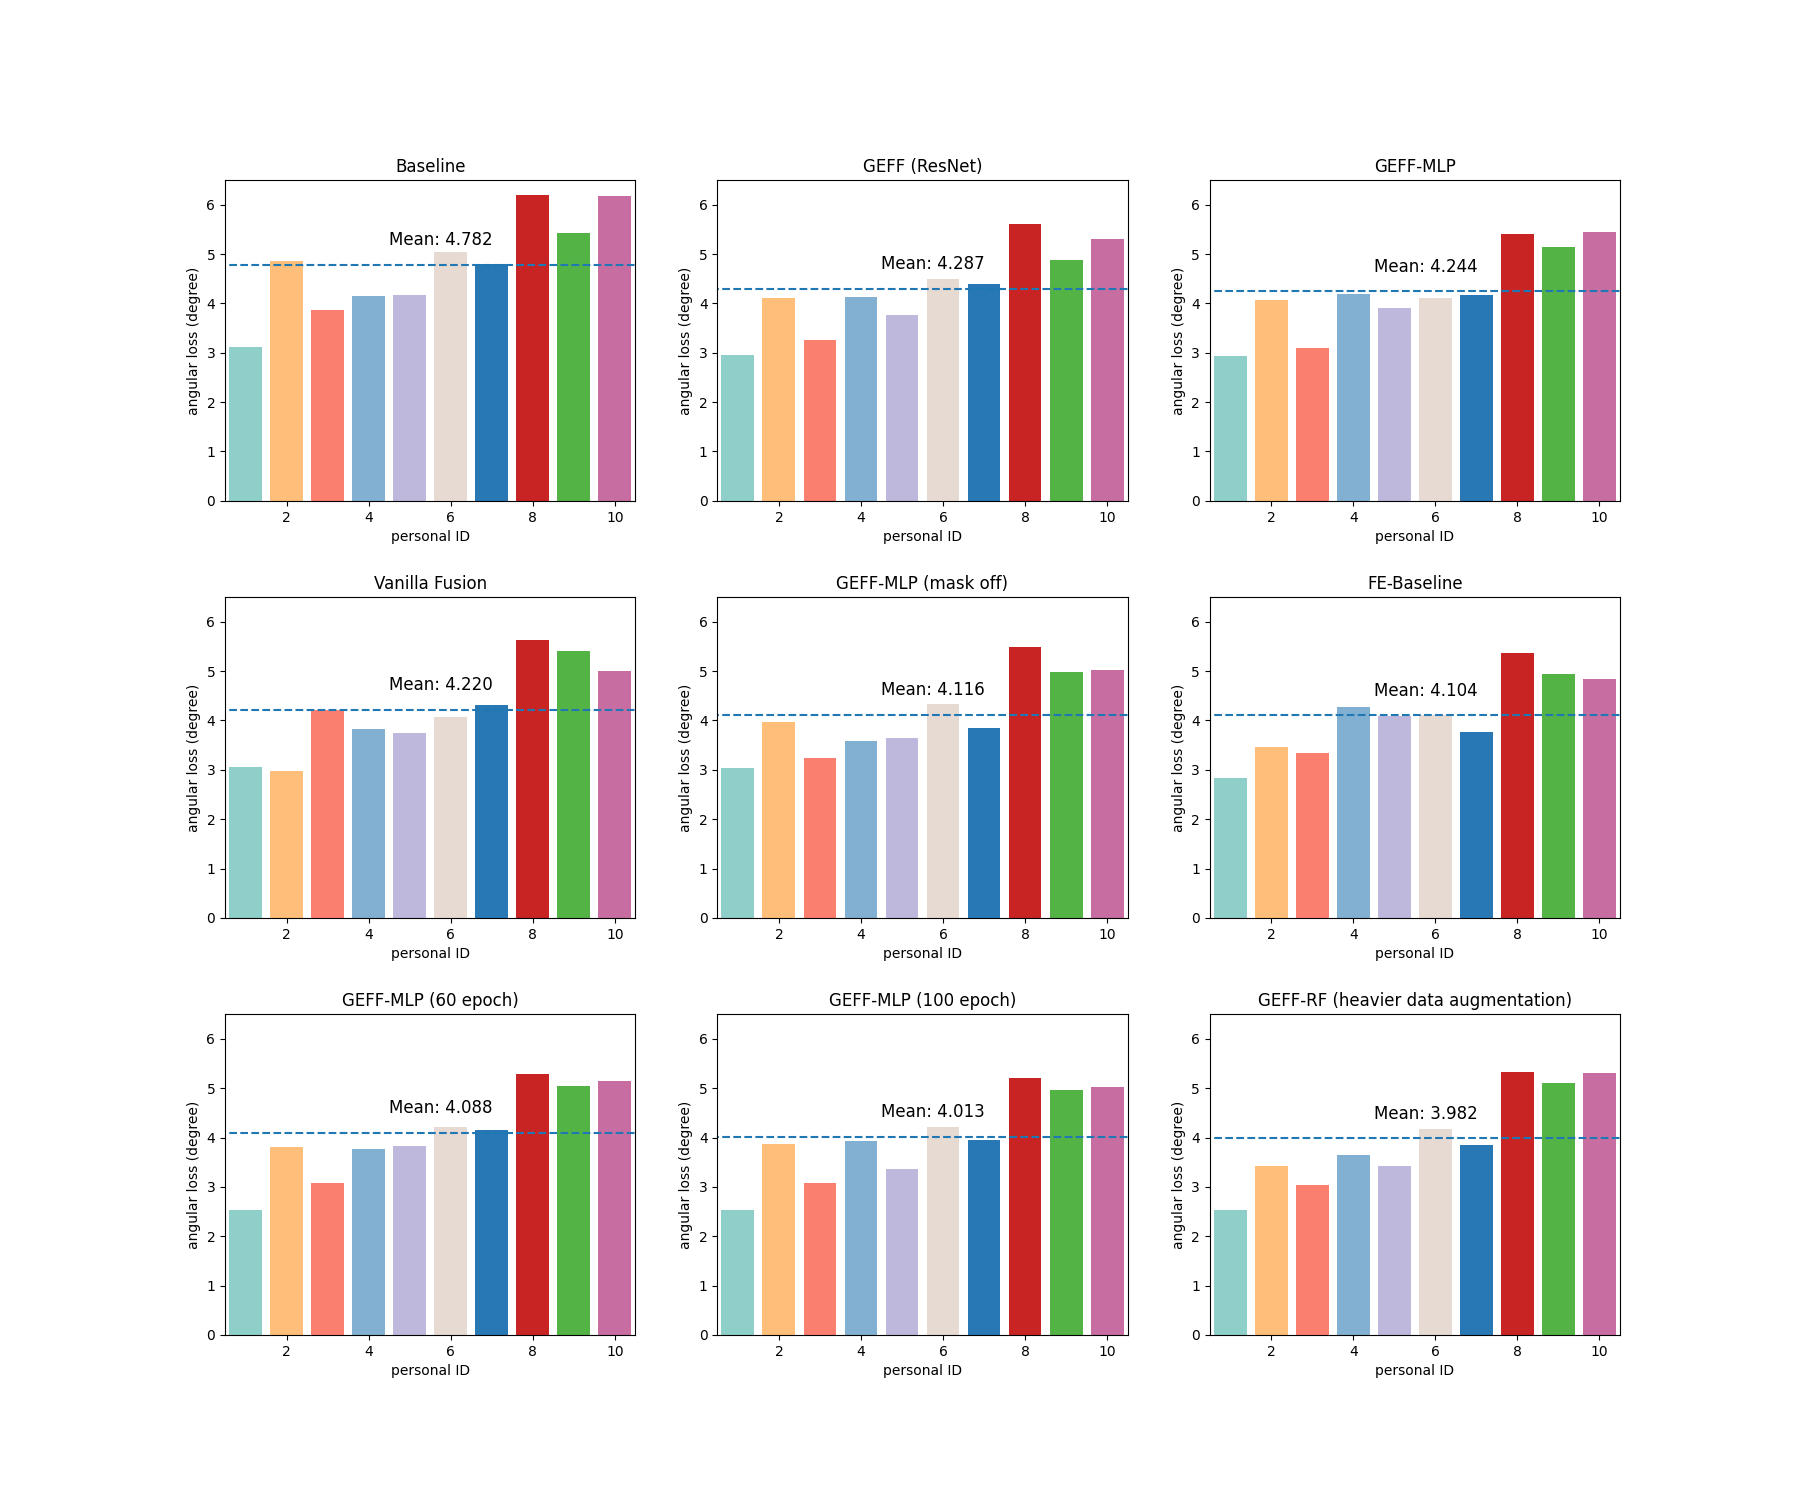
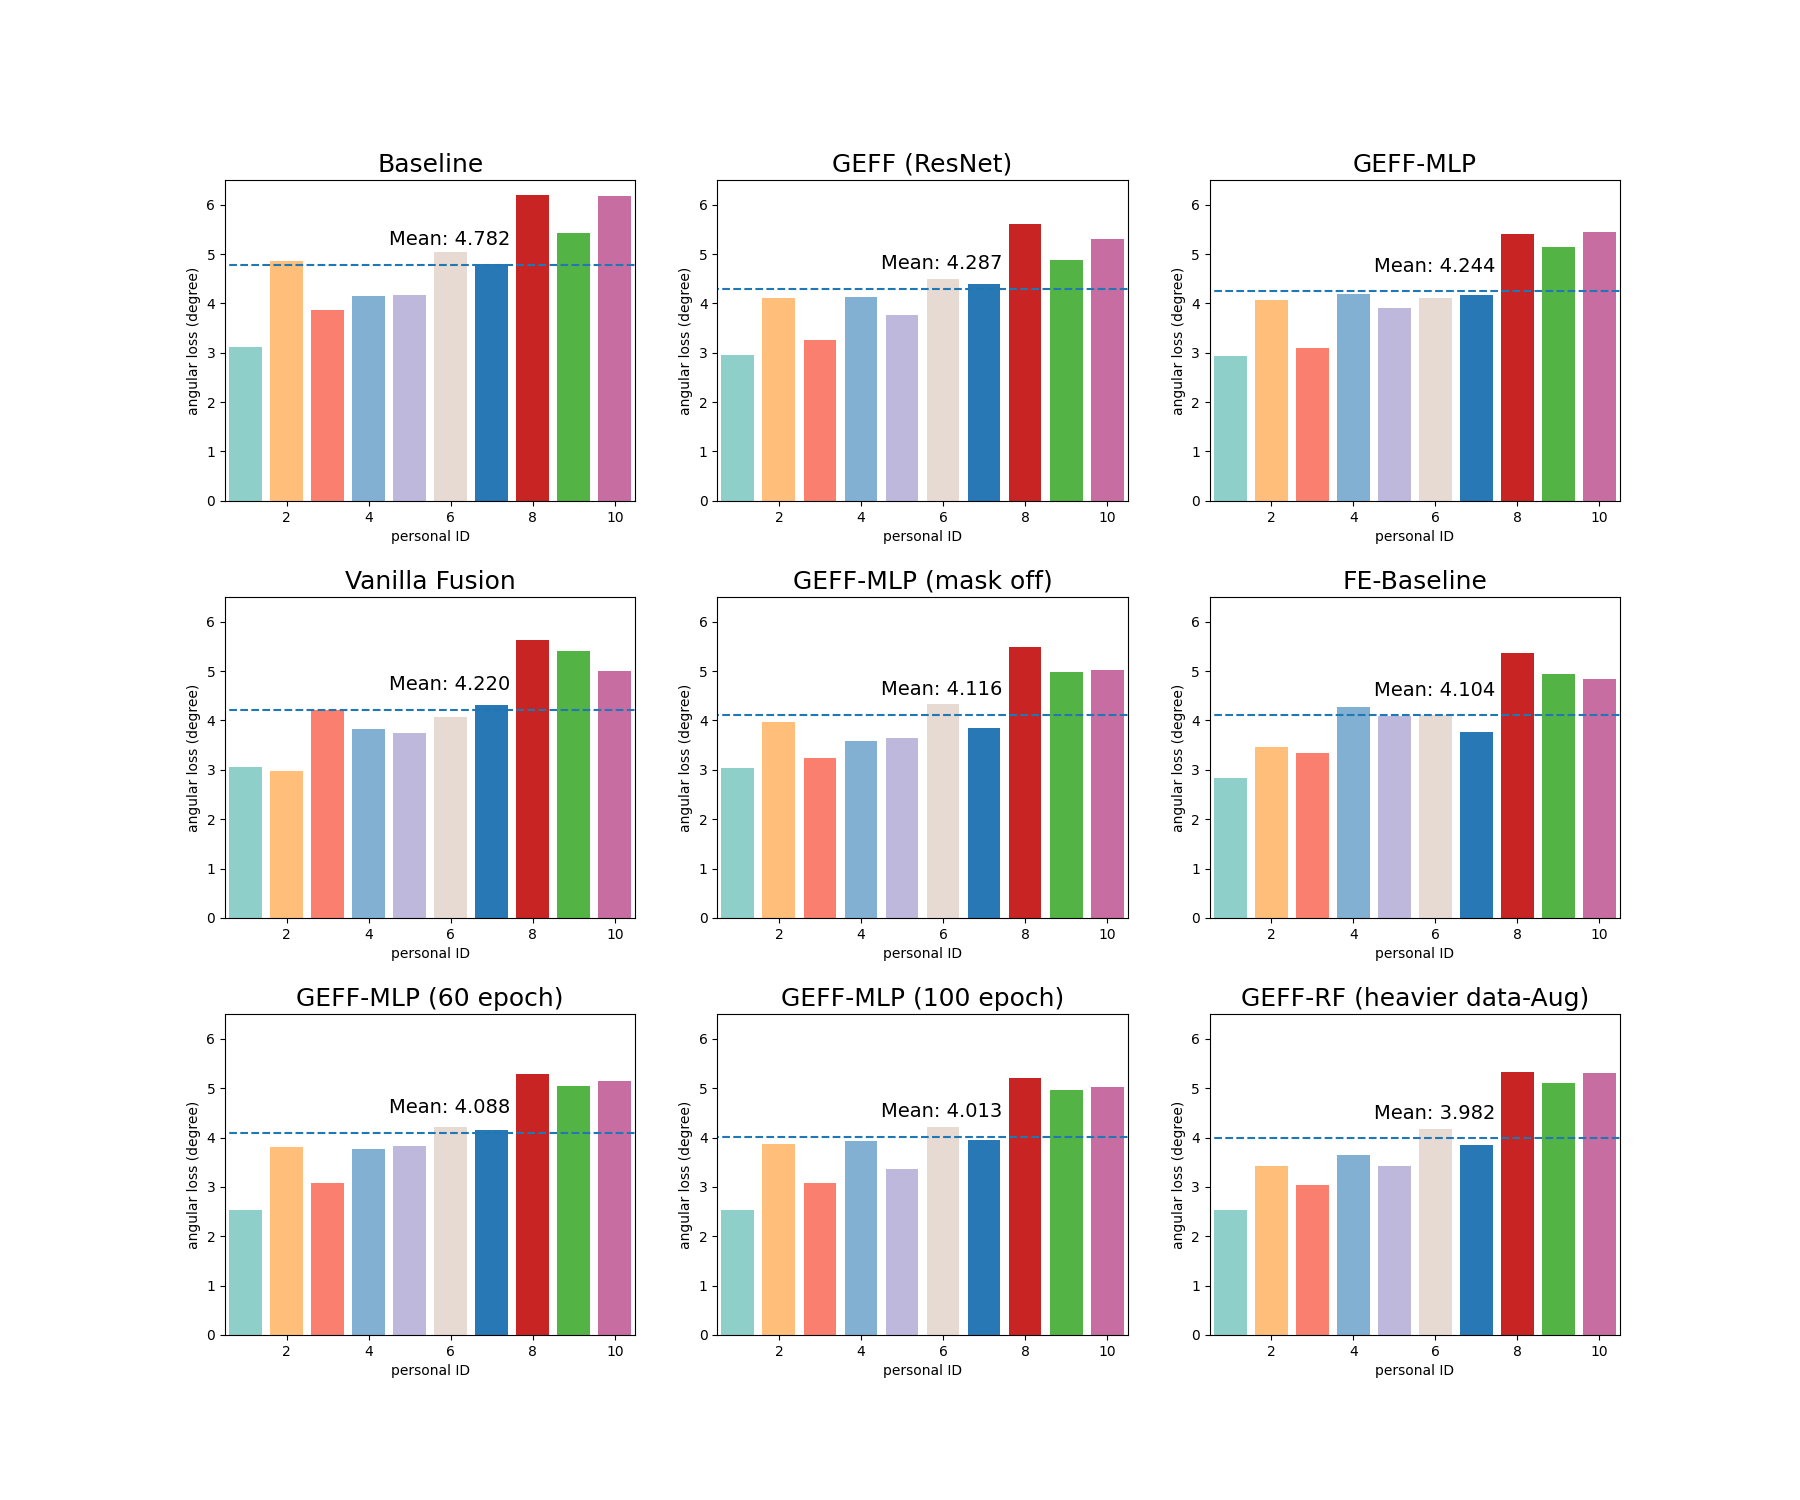
Update Plot

diff --git a/scripts/cross_val_plot.py b/scripts/cross_val_plot.py
@@ -47,7 +47,7 @@ losses = {
         2.5233322798411053, 3.869793039957682, 3.079336062113444, 3.931205847422282, 3.364947898228963,
         4.2196826725006105, 3.9490752258300783, 5.207069086710612, 4.966465431213379, 5.019186856587728
     ],
-    'GEFF-RF (heavier data augmentation)':[
+    'GEFF-RF (heavier data-Aug)':[
         2.5276485888163247, 3.4206851921081545, 3.045332301457723, 3.63777263323466, 3.4291863441467285,
         4.1741627604166665, 3.839682412465413, 5.325767004648845, 5.113183091481527, 5.301839869181315
     ]
@@ -65,11 +65,11 @@ for i in range(len(losses)):
     plt.bar(index, loss, color=color)
     mean = np.mean(loss)
     plt.plot([-1,11], [mean, mean], '--')
-    plt.text(4.5, mean + 0.4, 'Mean: %0.3f' % mean, size=12)
+    plt.text(4.5, mean + 0.4, 'Mean: %0.3f' % mean, size=14)
     plt.xlim([0.5,10.5])
     plt.ylim([0,6.5])
     plt.ylabel(r'angular loss (degree)')
     plt.xlabel('personal ID')
-    plt.title(label)
+    plt.title(label, size=18)
 plt.savefig('figs/result.pdf')
 plt.savefig('figs/result.png')
